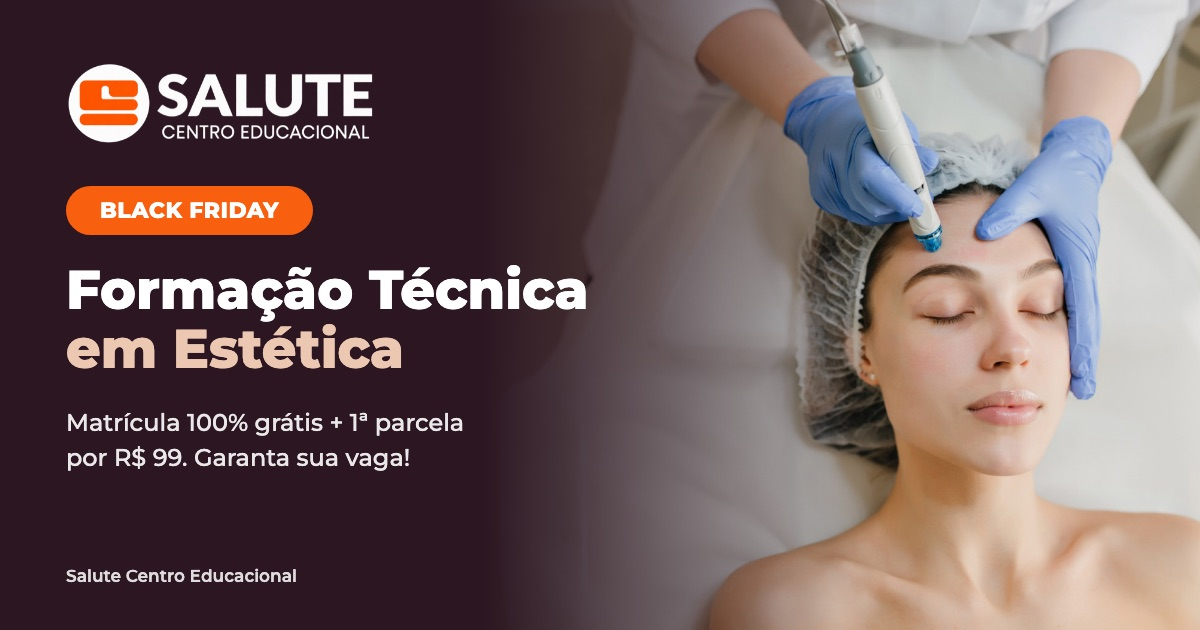
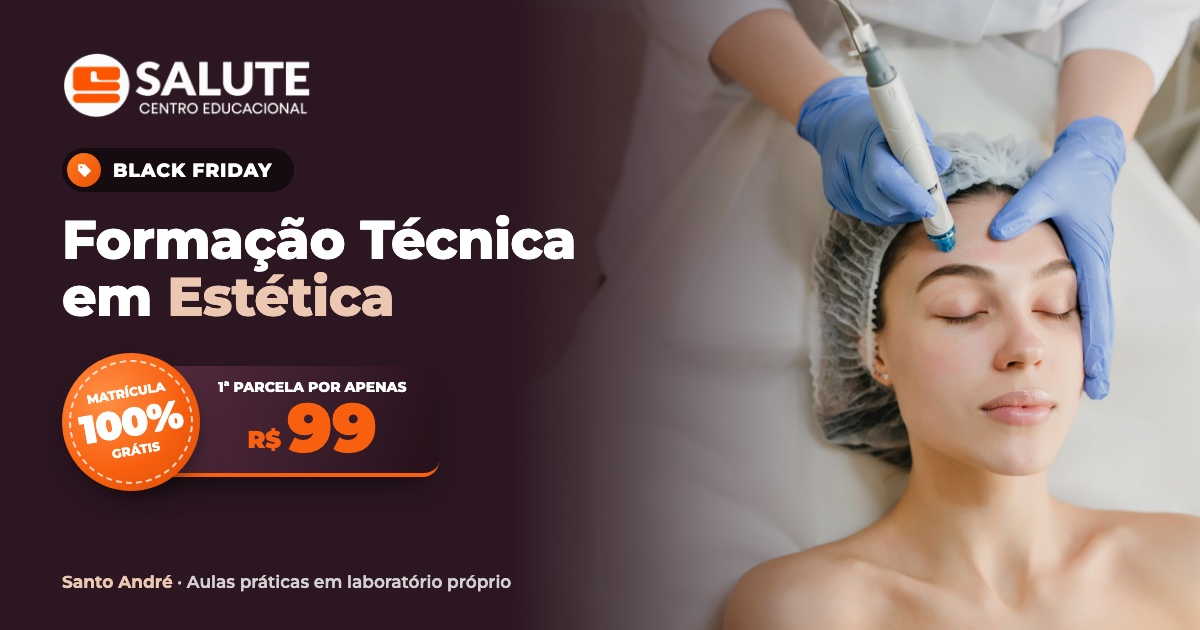
Topo mais compacto, prévia de link nova e ajuste no FAQ
- Hero cabe inteiro em telas de notebook (header mais baixo, título,
  selo e card da parcela menores, subtítulo em 2 linhas)
- Prévia do link (Open Graph): imagem nova com selo "Matrícula 100%
  grátis" e card "1ª parcela R$ 99", título e descrição novos, tags de
  imagem completas e ?v=2 para o WhatsApp atualizar o cache
- FAQ: remove a frase sobre buscar estágio por iniciativa própria

diff --git a/index.html b/index.html
@@ -23,7 +23,7 @@
   }, true);
 </script>
 <title>Técnico em Estética | Salute Centro Educacional</title>
-<meta name="description" content="Formação Técnica em Estética na Salute Centro Educacional, em Santo André. Black Friday: matrícula grátis e 1ª parcela por R$ 99. Garanta sua vaga!">
+<meta name="description" content="Formação Técnica em Estética em Santo André, com aulas práticas em laboratório. Black Friday: matrícula 100% grátis e 1ª parcela por R$ 99. Garanta sua vaga!">
 <link rel="icon" href="/favicon.ico" sizes="any">
 <link rel="icon" type="image/png" sizes="32x32" href="/favicon-32.png">
 <link rel="icon" type="image/png" sizes="192x192" href="/favicon-192.png">
@@ -32,17 +32,21 @@
 <meta property="og:type" content="website">
 <meta property="og:locale" content="pt_BR">
 <meta property="og:site_name" content="Salute Centro Educacional">
-<meta property="og:title" content="Técnico em Estética | Salute Centro Educacional">
-<meta property="og:description" content="Formação Técnica em Estética na Salute Centro Educacional, em Santo André. Black Friday: matrícula grátis e 1ª parcela por R$ 99. Garanta sua vaga!">
+<meta property="og:title" content="Técnico em Estética com matrícula grátis | Salute">
+<meta property="og:description" content="Formação Técnica em Estética em Santo André, com aulas práticas em laboratório. Black Friday: matrícula 100% grátis e 1ª parcela por R$ 99. Garanta sua vaga!">
 <meta property="og:url" content="https://estetica.escolasalute.com.br/">
-<meta property="og:image" content="https://estetica.escolasalute.com.br/og-image.jpg">
+<meta property="og:image" content="https://estetica.escolasalute.com.br/og-image.jpg?v=2">
+<meta property="og:image:secure_url" content="https://estetica.escolasalute.com.br/og-image.jpg?v=2">
+<meta property="og:image:type" content="image/jpeg">
 <meta property="og:image:width" content="1200">
 <meta property="og:image:height" content="630">
-<meta property="og:image:alt" content="Salute Centro Educacional – Formação Técnica em Estética">
+<meta property="og:image:alt" content="Salute Centro Educacional – Formação Técnica em Estética: matrícula 100% grátis e 1ª parcela por R$ 99">
 <meta name="twitter:card" content="summary_large_image">
-<meta name="twitter:title" content="Técnico em Estética | Salute Centro Educacional">
-<meta name="twitter:description" content="Formação Técnica em Estética na Salute Centro Educacional, em Santo André. Black Friday: matrícula grátis e 1ª parcela por R$ 99. Garanta sua vaga!">
-<meta name="twitter:image" content="https://estetica.escolasalute.com.br/og-image.jpg">
+<meta name="twitter:title" content="Técnico em Estética com matrícula grátis | Salute">
+<meta name="twitter:description" content="Formação Técnica em Estética em Santo André, com aulas práticas em laboratório. Black Friday: matrícula 100% grátis e 1ª parcela por R$ 99. Garanta sua vaga!">
+<meta name="twitter:image" content="https://estetica.escolasalute.com.br/og-image.jpg?v=2">
+<meta name="twitter:image:alt" content="Salute Centro Educacional – Formação Técnica em Estética: matrícula 100% grátis e 1ª parcela por R$ 99">
+<link rel="canonical" href="https://estetica.escolasalute.com.br/">
 <link rel="preconnect" href="https://fonts.googleapis.com">
 <link rel="preconnect" href="https://fonts.gstatic.com" crossorigin>
 <link rel="stylesheet" href="https://fonts.googleapis.com/css2?family=Montserrat:wght@500;600;700;800;900&family=Open+Sans:wght@400;600;700&display=swap">
@@ -94,7 +98,7 @@
       <div class="hero__copy">
         <span class="bf-tag"><span class="bf-tag__ico"><svg class="ico ico--fill"><use href="#i-tag"/></svg></span>Black Friday</span>
         <h1>Formação Técnica em <span class="hl">Estética</span></h1>
-        <p class="hero__sub">Aprenda a cuidar da pele com técnica e segurança: avaliação facial, cosmetologia, eletroterapia e protocolos estéticos, com aulas práticas no laboratório da escola.</p>
+        <p class="hero__sub">Aprenda avaliação facial, cosmetologia, eletroterapia e protocolos estéticos, com aulas práticas no laboratório da escola.</p>
         <div class="deal">
           <div class="deal__seal"><span>Matrícula</span><strong>100%</strong><span>Grátis</span></div>
           <div class="deal__bar"><small>1ª parcela por apenas</small><strong><sup>R$</sup>99</strong></div>
@@ -271,7 +275,7 @@
         <details><summary>Quando começam as aulas?<span class="faq__plus"></span></summary><p>O início das aulas está previsto para 22/02/2027. Garanta sua vaga com antecedência, pois as turmas são limitadas.</p></details>
         <details><summary>Quais são os horários disponíveis?<span class="faq__plus"></span></summary><p>Fale com nossa equipe pelo WhatsApp para conhecer os horários das turmas e escolher o que melhor se encaixa na sua rotina.</p></details>
         <details><summary>O curso tem aulas práticas?<span class="faq__plus"></span></summary><p>Sim! Grande parte da formação acontece no laboratório da própria escola, com vivências práticas desde o início do curso.</p></details>
-        <details><summary>O curso possui estágio?<span class="faq__plus"></span></summary><p>O Técnico em Estética não possui estágio obrigatório: as aulas práticas são feitas no laboratório da escola. Quem quiser ampliar a experiência pode buscar estágio por iniciativa própria.</p></details>
+        <details><summary>O curso possui estágio?<span class="faq__plus"></span></summary><p>O Técnico em Estética não possui estágio obrigatório: as aulas práticas são feitas no laboratório da escola.</p></details>
         <details><summary>Como faço para me inscrever?<span class="faq__plus"></span></summary><p>É rápido e fácil! Clique no botão “Falar com Atendente no WhatsApp” ou no ícone do WhatsApp no canto inferior direito da tela. Nossa equipe vai tirar suas dúvidas e fazer sua matrícula.</p></details>
         <details><summary>O curso é reconhecido e emite diploma?<span class="faq__plus"></span></summary><p>Sim! Ao concluir todas as disciplinas e a carga horária prevista, você recebe o diploma de Técnico em Estética, reconhecido em todo o território nacional.</p></details>
       </div>

diff --git a/assets/css/style.css b/assets/css/style.css
@@ -38,8 +38,8 @@ h1,h2,h3,p{margin:0}
 
 /* Header */
 .header{position:sticky;top:0;z-index:50;background:var(--wine)}
-.header__in{display:flex;align-items:center;gap:40px;height:96px}
-.header__logo img{width:auto;height:60px}
+.header__in{display:flex;align-items:center;gap:40px;height:84px}
+.header__logo img{width:auto;height:54px}
 .nav{display:flex;flex:1;justify-content:center;gap:32px}
 .nav a{font:500 15px var(--head);color:#fff;transition:color .2s}
 .nav a:hover{color:var(--nude)}
@@ -50,31 +50,31 @@ h1,h2,h3,p{margin:0}
 .nav-toggle[aria-expanded="true"] span:nth-child(3){transform:translateY(-7px) rotate(-45deg)}
 
 /* Hero: foto em tela cheia com degradê da esquerda para a direita */
-.hero{position:relative;display:flex;align-items:center;min-height:680px;overflow:hidden;padding:64px 0 112px;background:var(--cream)}
+.hero{position:relative;display:flex;align-items:center;min-height:600px;overflow:hidden;padding:40px 0 104px;background:var(--cream)}
 .hero>.container{position:relative;z-index:1}
 .hero__media{position:absolute;top:0;right:0;bottom:0;width:62%}
 .hero__media img{width:100%;height:100%;object-fit:cover;object-position:68% 40%}
 .hero__media::after{content:"";position:absolute;inset:0;background:linear-gradient(90deg,var(--cream) 0%,rgba(251,246,241,.92) 14%,rgba(251,246,241,.55) 30%,rgba(251,246,241,0) 52%)}
 .hero__copy{max-width:560px}
-.bf-tag{display:inline-flex;align-items:center;gap:14px;padding:4px 24px 4px 4px;border-radius:999px;background:var(--wine-3);color:#fff;font:800 20px/1 var(--head);letter-spacing:.04em;text-transform:uppercase}
-.bf-tag__ico{display:grid;place-items:center;width:40px;height:40px;border-radius:50%;background:linear-gradient(135deg,var(--orange-2),var(--orange-d));color:#fff}
-.bf-tag__ico .ico{width:20px;height:20px}
+.bf-tag{display:inline-flex;align-items:center;gap:12px;padding:4px 22px 4px 4px;border-radius:999px;background:var(--wine-3);color:#fff;font:800 17px/1 var(--head);letter-spacing:.04em;text-transform:uppercase}
+.bf-tag__ico{display:grid;place-items:center;width:34px;height:34px;border-radius:50%;background:linear-gradient(135deg,var(--orange-2),var(--orange-d));color:#fff}
+.bf-tag__ico .ico{width:17px;height:17px}
 .bf-tag--sm{gap:10px;padding-right:18px;font-size:13px;background:rgba(255,255,255,.1);border:1px solid rgba(236,199,177,.35)}
 .bf-tag--sm .bf-tag__ico{width:30px;height:30px}
 .bf-tag--sm .bf-tag__ico .ico{width:15px;height:15px}
-.hero h1{margin:22px 0 14px;font:800 clamp(2.3rem,4.4vw,3.6rem)/1.08 var(--head);color:var(--wine);letter-spacing:-.01em}
-.hero__sub{max-width:540px;margin-bottom:22px;font-size:1.05rem}
-.deal{position:relative;display:flex;align-items:center;width:max-content;max-width:100%;margin:0 0 24px;padding:16px 0}
-.deal__seal{position:absolute;top:50%;left:0;z-index:2;display:flex;flex-direction:column;align-items:center;justify-content:center;width:156px;height:156px;border-radius:50%;background:radial-gradient(circle at 35% 30%,#ff8f45,var(--orange) 55%,#d94a05);color:#fff;font-family:var(--head);line-height:1;text-transform:uppercase;transform:translateY(-50%) rotate(-10deg);box-shadow:0 14px 28px -10px rgba(217,74,5,.7)}
+.hero h1{margin:18px 0 10px;font:800 clamp(2.2rem,3.7vw,3.25rem)/1.06 var(--head);color:var(--wine);letter-spacing:-.01em}
+.hero__sub{max-width:540px;margin-bottom:14px;font-size:1rem;line-height:1.55}
+.deal{position:relative;display:flex;align-items:center;width:max-content;max-width:100%;margin:0 0 18px;padding:12px 0}
+.deal__seal{position:absolute;top:50%;left:0;z-index:2;display:flex;flex-direction:column;align-items:center;justify-content:center;width:140px;height:140px;border-radius:50%;background:radial-gradient(circle at 35% 30%,#ff8f45,var(--orange) 55%,#d94a05);color:#fff;font-family:var(--head);line-height:1;text-transform:uppercase;transform:translateY(-50%) rotate(-10deg);box-shadow:0 14px 28px -10px rgba(217,74,5,.7)}
 .deal__seal::before{content:"";position:absolute;inset:8px;border:2px dashed rgba(255,255,255,.75);border-radius:50%}
-.deal__seal span{font-size:14px;font-weight:800;letter-spacing:.02em}
-.deal__seal strong{margin:3px 0;font-size:44px;font-weight:900;letter-spacing:-.02em}
-.deal__bar{flex:none;display:flex;flex-direction:column;align-items:center;justify-content:center;min-height:124px;margin-left:72px;padding:14px 34px 14px 100px;border-radius:16px;border-bottom:4px solid var(--orange);background:linear-gradient(110deg,#5a2e42,#3a1d2b 55%,#24111a);color:#fff;font-family:var(--head);box-shadow:0 14px 26px -14px rgba(43,22,33,.75)}
+.deal__seal span{font-size:13px;font-weight:800;letter-spacing:.02em}
+.deal__seal strong{margin:3px 0;font-size:40px;font-weight:900;letter-spacing:-.02em}
+.deal__bar{flex:none;display:flex;flex-direction:column;align-items:center;justify-content:center;min-height:110px;margin-left:66px;padding:12px 32px 12px 92px;border-radius:16px;border-bottom:4px solid var(--orange);background:linear-gradient(110deg,#5a2e42,#3a1d2b 55%,#24111a);color:#fff;font-family:var(--head);box-shadow:0 14px 26px -14px rgba(43,22,33,.75)}
 .deal__bar small{font-size:15px;font-weight:800;text-transform:uppercase}
-.deal__bar strong{display:flex;align-items:flex-end;gap:6px;margin-top:4px;font-size:78px;font-weight:900;line-height:.95;color:var(--orange)}
-.deal__bar sup{margin-bottom:10px;font-size:28px}
-.hero .btn--cta{max-width:540px}
-.trust{display:flex;justify-content:center;gap:30px;max-width:540px;margin-top:26px}
+.deal__bar strong{display:flex;align-items:flex-end;gap:6px;margin-top:4px;font-size:70px;font-weight:900;line-height:.95;color:var(--orange)}
+.deal__bar sup{margin-bottom:9px;font-size:26px}
+.hero .btn--cta{max-width:540px;padding-top:16px;padding-bottom:16px}
+.trust{display:flex;justify-content:center;gap:30px;max-width:540px;margin-top:18px}
 .trust li{display:flex;align-items:center;gap:10px;font:700 14px/1.25 var(--head);color:var(--wine)}
 .trust .ico{width:32px;height:32px;color:var(--rose);stroke-width:1.5}
 
